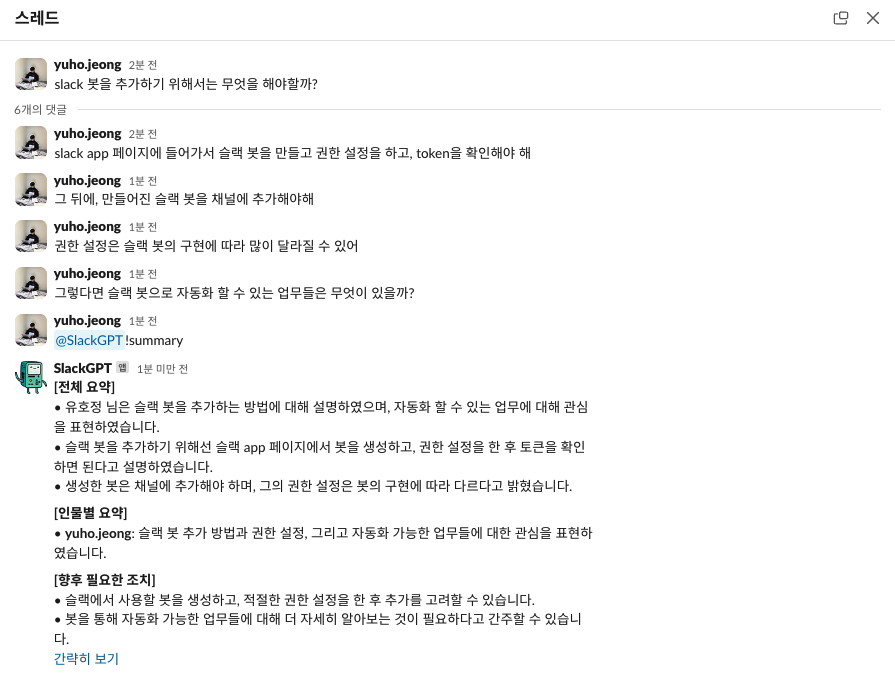
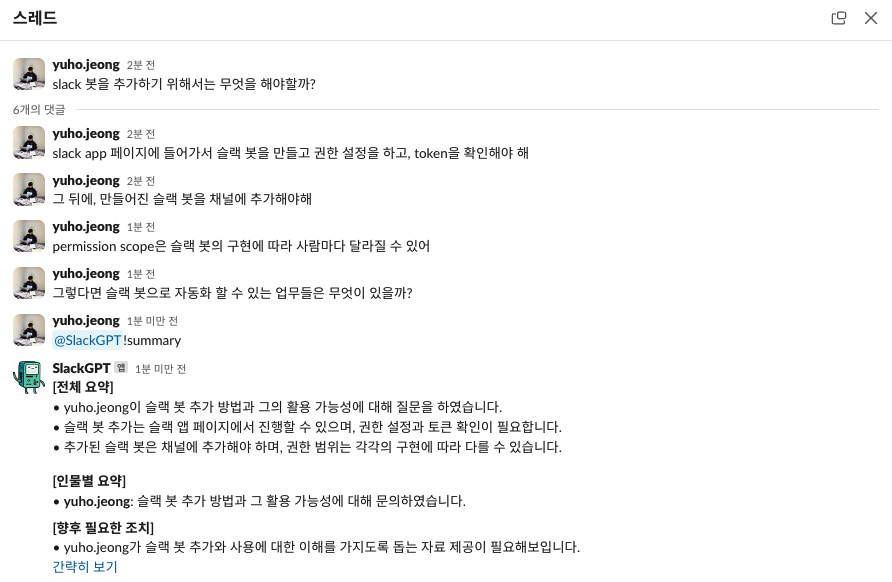
docs: update format and img

Changed region(s): [[0.0, 0.0, 0.6659, 0.9897], [0.9383, 0.0, 0.9989, 0.0309]]

diff --git a/slack_ai/prompts/summary.py b/slack_ai/prompts/summary.py
@@ -10,7 +10,7 @@ CONVERSATION:
 ```
 
 RULES:
-1. Summarize in Korean. This is the most important rule. You have to follow this rule. But please show names in English.
+1. Summarize in Korean. This is the most important rule. You have to follow this rule. But please show user name in English (i.e., *user name*).
 2. In '전체 요약' section, summarize conversation under four lines.
 3. In '인물별 요약' section, make a toggle for each person and summarize their arguments as one sentence as much as possible.
 4. You can add '향후 필요한 조치' section if there is anything you need to do in the future as a conclusion to the conversation. This section is an optional.

diff --git a/slack_ai/prompts/jira_ticket.py b/slack_ai/prompts/jira_ticket.py
@@ -10,7 +10,7 @@ CONVERSATION:
 ```
     
 RULES:
-1. Create a task in Korean. This is the most important rule. You have to follow this rule.
+1. Create a task in Korean. This is the most important rule. You have to follow this rule. But please show user name in English (i.e., *user name*).
 2. In 'Title' section, describe the title of the task in one line.
 3. In 'Description' section, write down the motivation, details, and purpose of the task under three lines.
 4. You can add 'Checklist' section if there are specific steps or checklist that I have to go through to perform the task under three lines.
